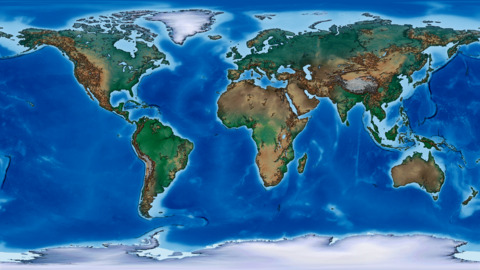
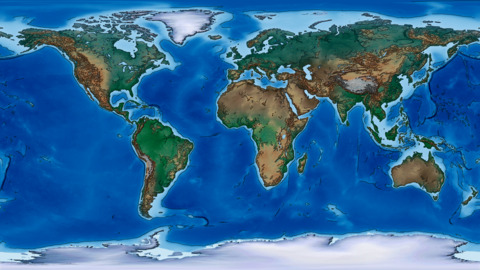
update

diff --git a/README.md b/README.md
@@ -16,30 +16,30 @@ Crop image while maintaining aspect ratio with `geometry` option.
 
 ```convert largeprint_kdp-page077.png -gravity center -geometry 1940x600^ -crop 1940x600+0+0 +repage largeprint_kdp-page077_1940x600.png```
 
-Resize all image files.
+Resize all png files and save as jpg.
 
 ```ls *.png | while read file; do convert -resize 25% ${file} ${file%.*}.jpg; done```
 
-Adjust levels to enhance colors of Natural Earth's hypsometric raster.
+Adjust levels to enhance colors of Natural Earth's hypsometric image.
 
-```convert HYP_HR_SR_OB_DR.tif -level 50%,100% HYP_HR_SR_OB_DR_levels.tif```
+```convert layer0.png -level 50%,100% layer0_levels.png```
 
 <img src="images/layer0.jpg"/>
 <img src="images/layer0_levels.jpg"/>
 
-Composite cloud cover raster over Natural Earth raster.
+Composite cloud cover image over Natural Earth image.
 
-```convert layer0.tif layer1.tif -gravity center -compose over -composite layer_composite.tif```
+```convert layer0.png layer1.png -gravity center -compose over -composite frame.png```
 
-Resize, adjust levels and composite rasters (with background canvas) in one command.
+Composite and adjust levels of each image in one command.
 
-```convert -size 480x270 xc:none \( layer0.tif -resize 25% -level 50%,100% \) -gravity center -compose over -composite \( layer1.tif -resize 25% -level 50%,100% \) -gravity center -compose over -composite layer_composite.tif```
+```convert -size 1920x1080 xc:none \( layer0.png -level 50%,100% \) -gravity center -compose over -composite \( layer1.png -level 50%,100% \) -gravity center -compose over -composite frame.png```
 
 <img src="images/frame.jpg"/>
 
 Add a sketch effect with a canny edge detection layer.
 
-```convert layer0.png -level 50%,100% \( +clone -modulate 200 -canny 0x0+5%+30% -negate \) -compose multiply -composite layer0_canny.png```
+```convert layer0.png -level 50%,100% \( +clone -modulate 200 -canny 0x1+10%+20% -negate \) -compose multiply -composite layer0_canny.png```
 
 <img src="images/layer0_canny.jpg"/>
 
